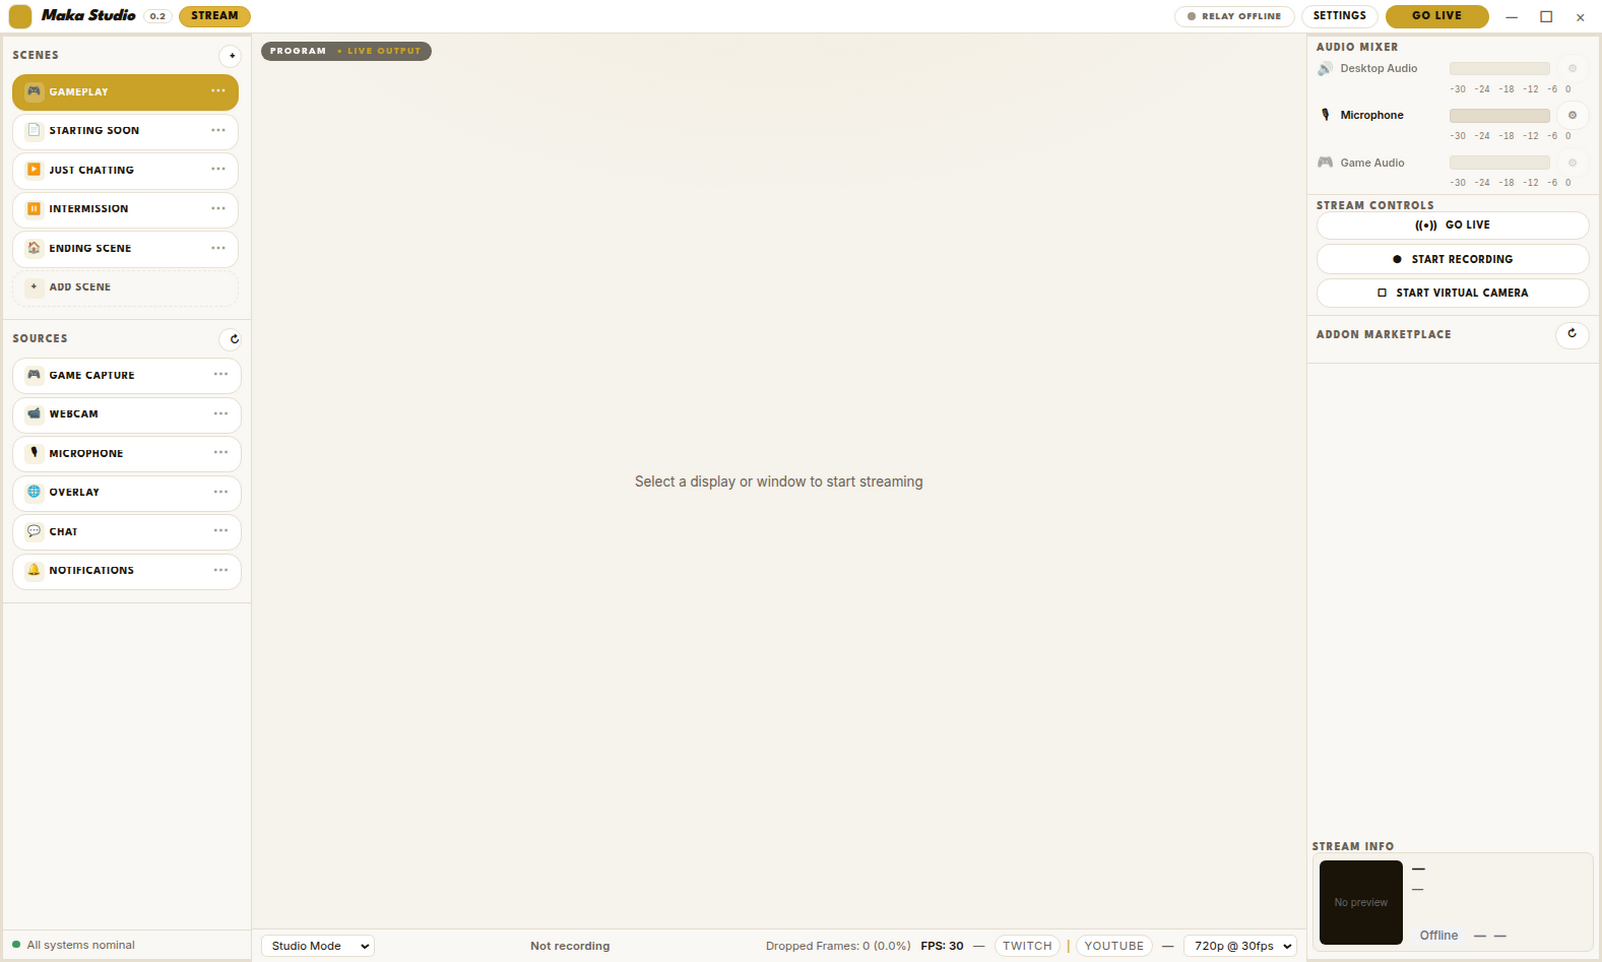
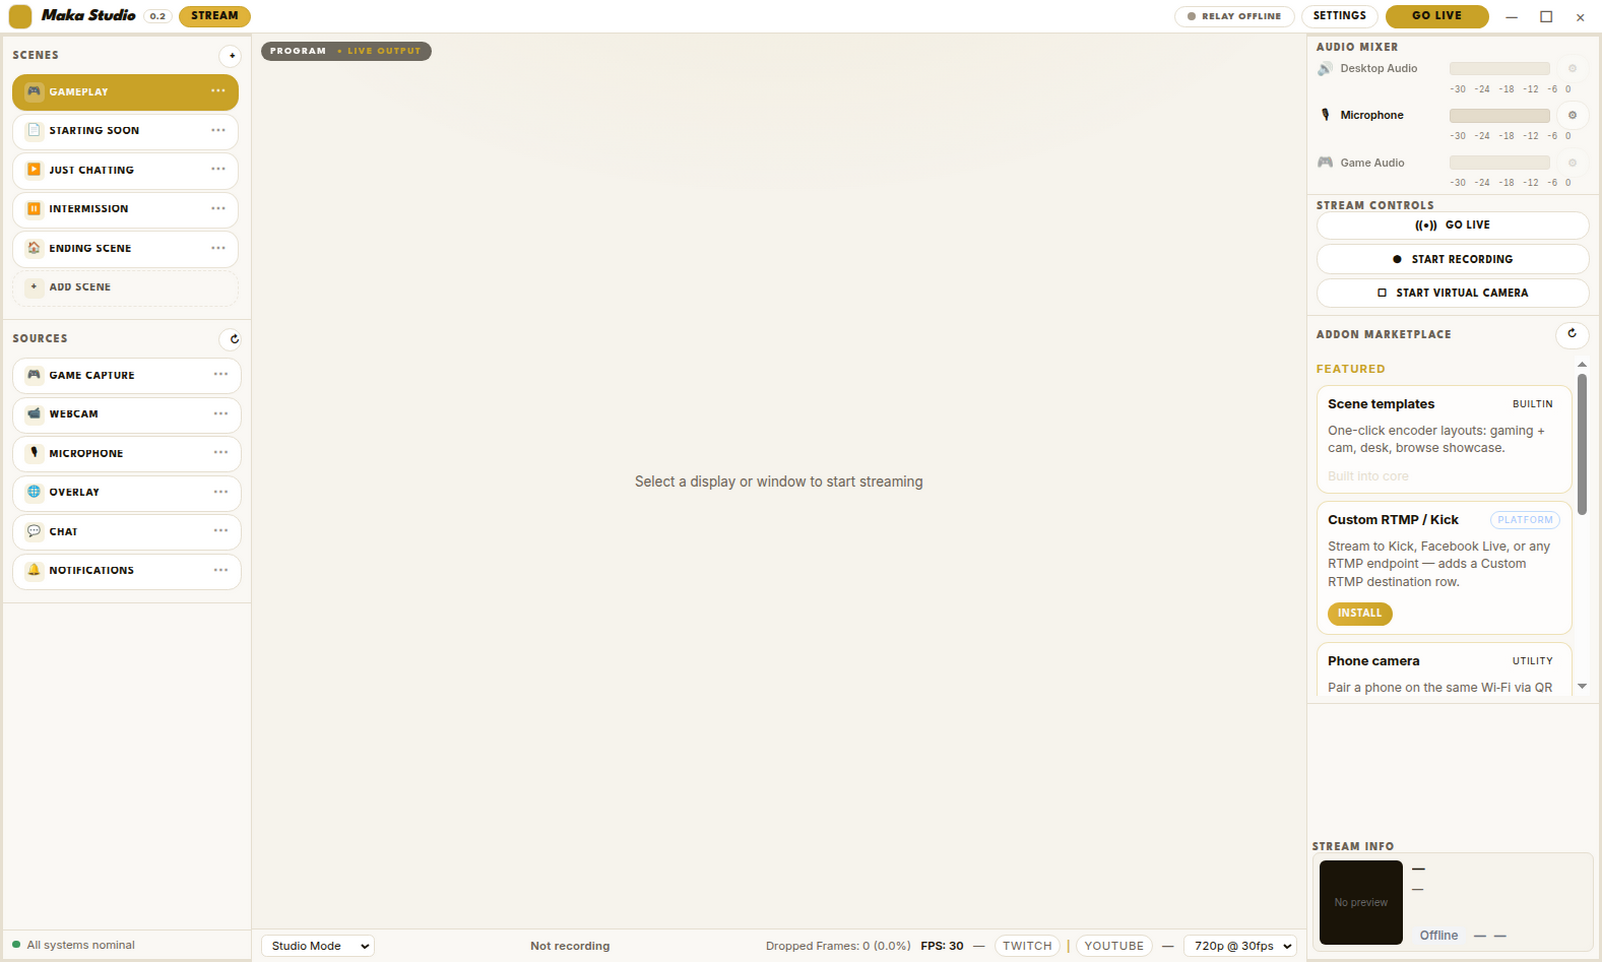
fix(studio): mount sidebar marketplace after renderer boot order
Move initMarketplace before early IPC and defer getRelay until program
stats DOM refs exist so a fast relay snapshot no longer throws during
module init (which left the sidebar list empty). Improve compact card
contrast in the cream sidebar and refresh studio-current.png.

Changed region(s): [[0.8115, 0.5301, 0.9675, 0.7173], [0.8115, 0.3742, 0.9988, 0.5301]]

diff --git a/src/renderer/app.ts b/src/renderer/app.ts
@@ -3316,11 +3316,28 @@ window.tabcast.onTitle((title) => {
   document.title = title ? `${title} · Maka — Browser` : 'Maka — Browser'
 })
 
+initMarketplace(window.tabcast, {
+  sidebarList: document.getElementById('marketplace-sidebar-list')!,
+  dialog: {
+    dialog: document.getElementById('marketplace-dialog') as HTMLDialogElement,
+    list: document.getElementById('marketplace-list')!,
+  },
+  onRefreshPanels: () => {
+    void renderAddonPanels()
+  },
+  onToast: (message, isError) => {
+    if (isError) setDestError(message)
+    else {
+      setDestError(null)
+      destHint.textContent = message
+    }
+  },
+})
+
 syncDestinationInputs()
 syncProgramVideoSurface()
 updateStudioMixControls()
 void window.tabcast.getMode().then(applyMode)
-void window.tabcast.getRelay().then(renderRelay)
 window.tabcast.onRelayUpdate(handleRelayLiveRecovery)
 void window.tabcast.getBrowserState().then((state) => {
   if (state) urlInput.value = state.url
@@ -3351,24 +3368,6 @@ subscribePhoneTracks((snap) => {
 window.tabcast.onAddonStudioToast((message) => {
   setDestError(null)
   destHint.textContent = message
-})
-
-initMarketplace(window.tabcast, {
-  sidebarList: document.getElementById('marketplace-sidebar-list')!,
-  dialog: {
-    dialog: document.getElementById('marketplace-dialog') as HTMLDialogElement,
-    list: document.getElementById('marketplace-list')!,
-  },
-  onRefreshPanels: () => {
-    void renderAddonPanels()
-  },
-  onToast: (message, isError) => {
-    if (isError) setDestError(message)
-    else {
-      setDestError(null)
-      destHint.textContent = message
-    }
-  },
 })
 
 const onboardingTour = new OnboardingTour(
@@ -4080,3 +4079,5 @@ syncOverlaySourceRow()
 refreshProgramPreviewLayout()
 updateGoLiveLabel(false)
 updateStreamInfo(false)
+
+void window.tabcast.getRelay().then(renderRelay)

diff --git a/src/renderer/app.css b/src/renderer/app.css
@@ -1860,12 +1860,18 @@ body:not([data-mode='browse']) #browsetabs {
 
 .marketplace-sidebar-list {
   max-height: min(42vh, 340px);
+  min-height: 4.5rem;
   overflow-y: auto;
   display: flex;
   flex-direction: column;
   gap: 0.45rem;
   padding-right: 0.12rem;
   scrollbar-gutter: stable;
+}
+
+.marketplace-sidebar-list .marketplace-card {
+  border-color: rgba(26, 20, 8, 0.12);
+  background: rgba(255, 255, 255, 0.72);
 }
 
 .marketplace-sidebar-list .marketplace-card-compact {

diff --git a/src/renderer/marketplace.ts b/src/renderer/marketplace.ts
@@ -23,6 +23,11 @@ type RenderOptions = {
 }
 
 export function initMarketplace(api: TabcastBridge, ui: MarketplaceUi): void {
+  if (!ui.sidebarList) {
+    console.error('initMarketplace: #marketplace-sidebar-list is missing from the DOM')
+    return
+  }
+
   const rerender = () => void renderAllLists(api, ui)
 
   document.getElementById('marketplace-sidebar-refresh')?.addEventListener('click', () => {
